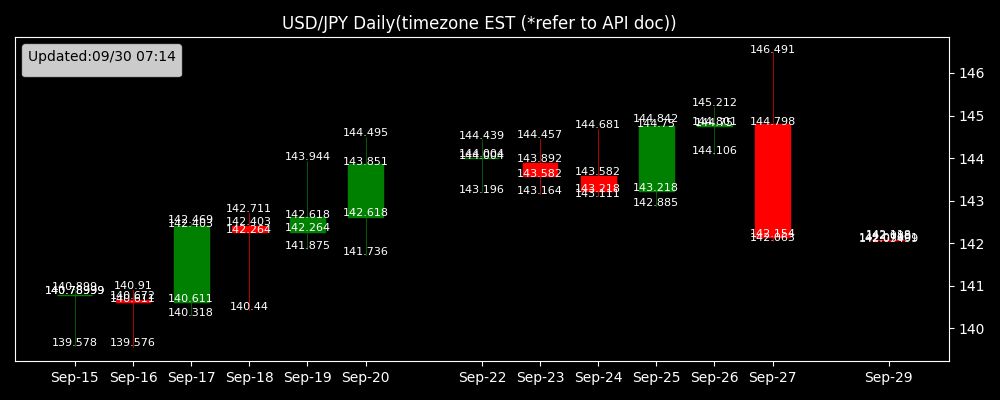
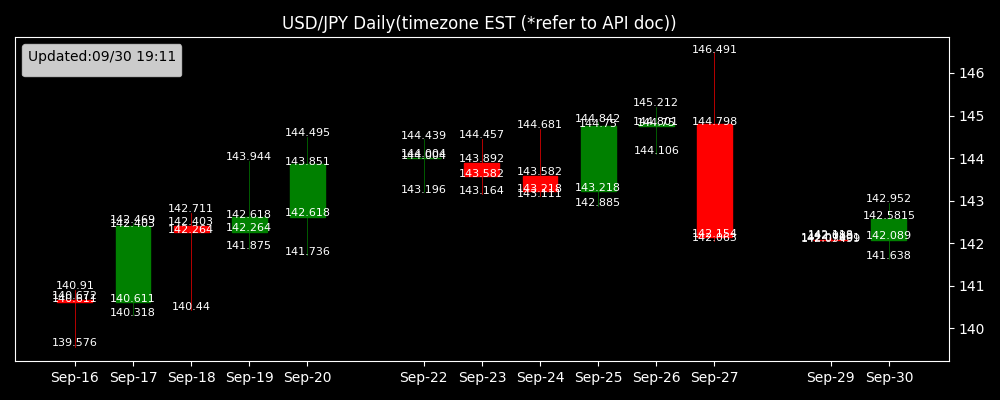
deploy: d0b27de62273aa2377ceacc5c6c429d1ca8a405d

diff --git a/docs/src/dashboard/marketinfo.html b/docs/src/dashboard/marketinfo.html
@@ -14,16 +14,14 @@
     </style>
 </head>
 <body>
-    <h3> 概況 (更新： 09/30 07:14 ) </h3>
-    <p>近々の為替市場の動向を観察すると、9月29日の終値は142.07001で、ここ数日の中で最も低い値となっている。この動きは、9月27日に見られた急激な値下がりからのものと考えられる。同日の高値146.491から一気に142.154への下落は、異様な取引量（799,500）からも市場の混乱を示唆している。
+    <h3> 概況 (更新： 09/30 19:11 ) </h3>
+    <p>9月中旬から9月末にかけての外国為替市場の動きを示すデータが存在し、ここ数週間のトレンドが浮き彫りになる。特に注目すべき変動は、9月27日に見られる高値146.491とその後の急落であり、これは何らかの市場イベントやニュースが市場心理に影響を及ぼした可能性を示唆している。
 
-それ以前には、9月26日および25日の高値144.801および144.75と比較的安定した取引が行われていた。これらの日の取引量も50万を超えているが、9月27日の異常な動きと比べると特段の異変は見られない。9月20日からの一週間を振り返ると、全体的なトレンドは徐々に上がりつつも、終値ベースで変動が激しく、特に20日から24日にかけての143.851から143.218への動きは注目すべきである。
+この期間における為替レートの変動範囲を見てみると、140.318（9月17日の安値）から146.491（9月27日の高値）と比較的大きな変動が生じている。また、ボリュームの観点からは、9月19日の取引量が1587376と比較的に突出している。これは重要なニュースや経済指標の発表が市場に影響を及ぼしたと考えることができる。最近のニュースによると、アメリカ連邦準備制度（FRB）の金利政策に関する発表や主要経済指標の発表などが影響を及ぼした可能性がある。
 
-ニュースや市場の反応も含めて検討すると、9月27日の急激な下落を引き起こす要因として、重要な経済指標の発表や地政学的なリスクの増加が影響している可能性がある。たとえば、主要中央銀行の金利政策や予期せぬ政治的イベントが市場に影響を与えたのかもしれない。
+9月末のレートは142.5815前後で安定しており、直近のトレンドとしてはやや下落傾向が見られるが、大きなトレンド転換が未だ確認されていない。市場参加者は今後発表される経済指標や中央銀行の政策動向に注目し、それが短期的な為替レートに影響を与える可能性がある。
 
-また、取引量の変動も注目すべき点である。例えば、9月19日の1,587,376という異常な取引量は、特段のイベントやニュースに関連している可能性がある。各国の経済状況や政策変動などが影響するため、今後の動向に注視することが求められる。
-
-このような市場の動きは不確実性が高く、慎重な取引とリスク管理が必要である。全体として、市場環境が不安定であり、複数の要因が複雑に絡み合っている状況がうかがえる。</p>
+いずれにしても、確定的な予測を避け、今後も市場の動向や関連ニュースを注視し続けることが重要である。</p>
 
     <p>Text generated from ChatGPT API.</p>
 

diff --git a/docs/src/dashboard/forecast_text.html b/docs/src/dashboard/forecast_text.html
@@ -6,18 +6,24 @@
 </head>
 <body>
     <h3>今日の天気 (09-30 Mon)</h3>
-    <p>### 天気予報
-2024年9月30日、東京の天気は概ね曇りがちで、一時的に雨が降る可能性があります。気温は日中に最高21.8°Cに達し、夜間には最低19.8°Cまで下がります。
+    <p>### 今日の天気予報
 
-- 朝方から午前中にかけて小雨が予想されていますが、午後には止む見込みです。
-- 天気コードは概ね曇り(2)、曇り時々小雨(51)、およびにわか雨(61)が予測されています。
+**日付：2024年9月30日**
 
-### UV Indexと日照時間
-- 最大UVインデックス：1.05（低い）
-- 日照時間：0.0秒（ほぼ日照なし）
+- **気温：** 最高気温は23.3°C、最低気温は20.3°C
+- **降水量：** 午前中に散発的な小雨が予想されていますが、全体的には晴れがちです。
+- **天気コード：** 主に晴れや一部曇り
+
+### UVインデックスと日照時間
+
+- **UVインデックス（最大）：** 5.6（中程度）
+- **日照時間：** 0.0秒
 
 ### 日傘の必要性
-この日は曇りがちで日照時間が極めて短いため、日傘は必要ありません。仮に雨が気になる場合は、雨傘を持って行くと良いでしょう。</p>
-    (更新：09/30 07:14)
+
+UVインデックスが5.6と中程度であるため、日中の日差しから肌を守るためには日傘や日焼け止めが有効です。しかし、今日の予想では日照時間が0.0秒となっており、実質的には曇りや雨が多い可能性があります。
+
+**結論として、日傘は持っておくと安心です。特に日中の短時間でも晴れることが考えられるため、UV対策として役立つでしょう。**</p>
+    (更新：09/30 19:11)
 
 </html>
